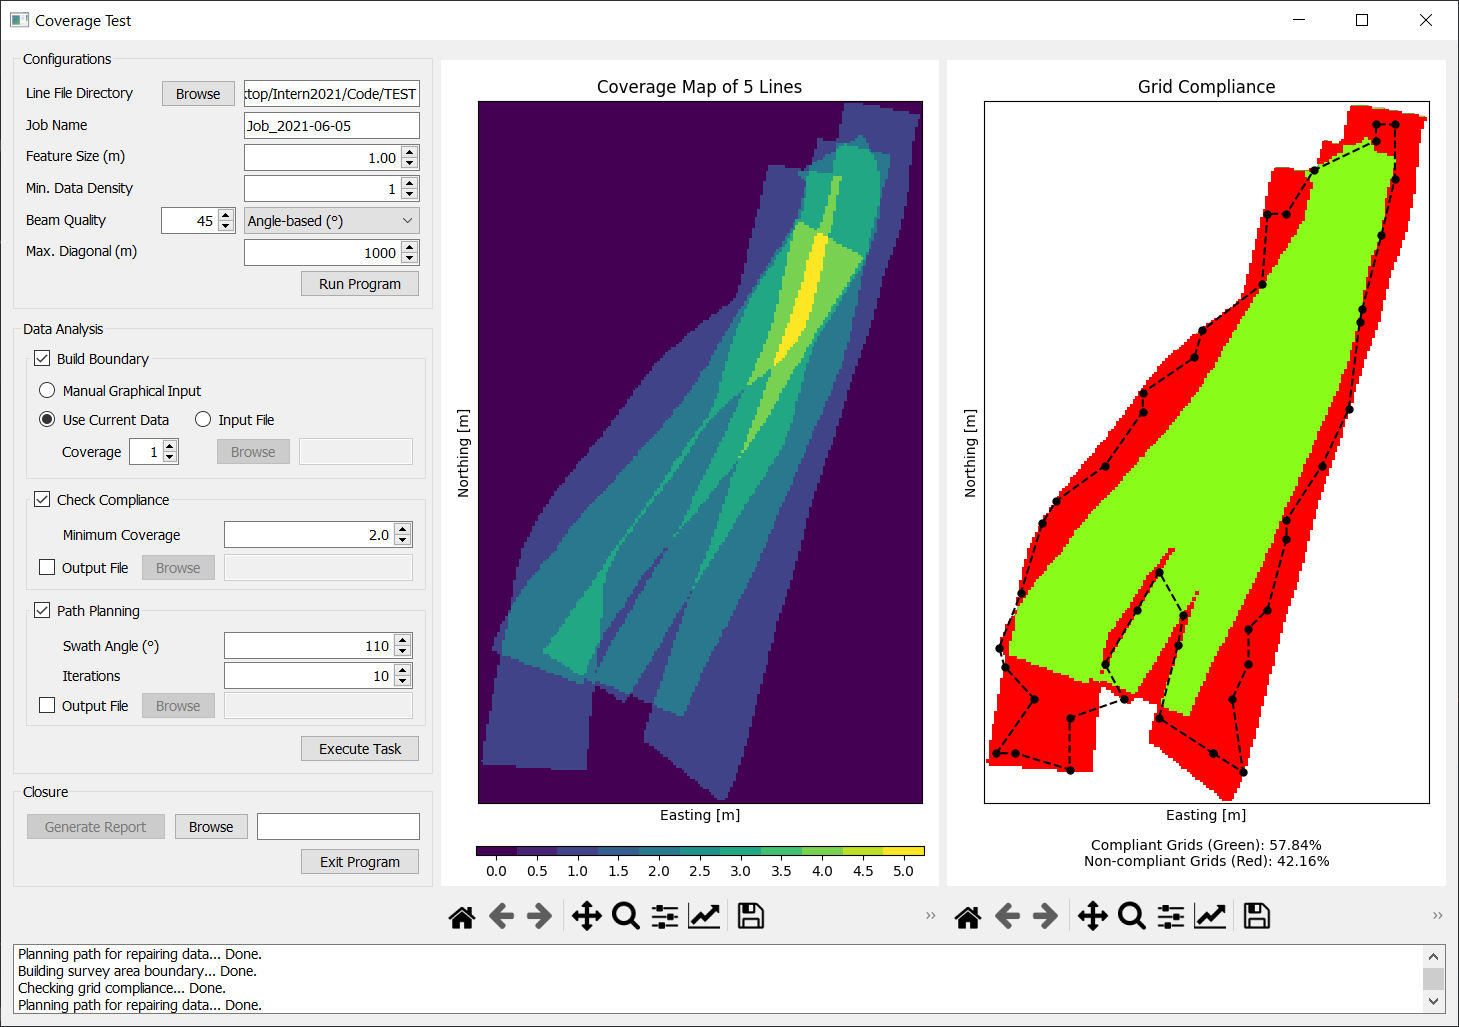
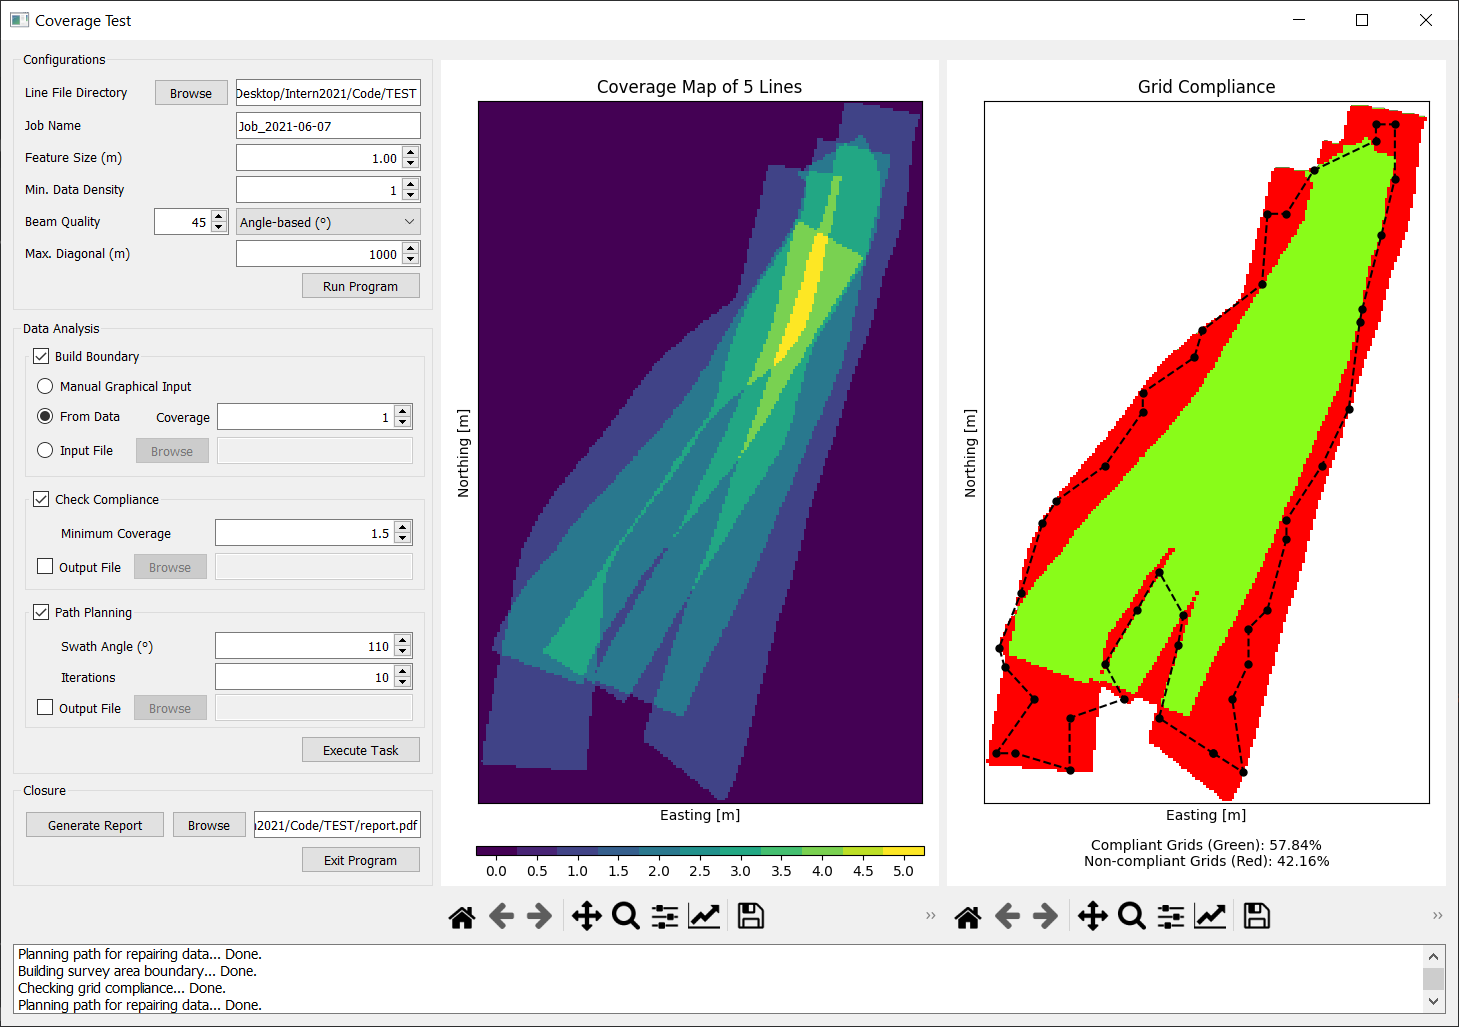
Improved ui

diff --git a/main_window_ui.py b/main_window_ui.py
@@ -173,62 +173,53 @@ class Ui_MainWindow(object):
         self.bounGroup.setFlat(False)
         self.bounGroup.setCheckable(True)
         self.bounGroup.setObjectName("bounGroup")
-        self.gridLayout_7 = QtWidgets.QGridLayout(self.bounGroup)
-        self.gridLayout_7.setObjectName("gridLayout_7")
-        self.bounInGlayout = QtWidgets.QGridLayout()
-        self.bounInGlayout.setObjectName("bounInGlayout")
-        self.bounFileRadio = QtWidgets.QRadioButton(self.bounGroup)
-        self.bounFileRadio.setEnabled(True)
-        self.bounFileRadio.setMinimumSize(QtCore.QSize(0, 0))
-        self.bounFileRadio.setMaximumSize(QtCore.QSize(16777215, 16777215))
-        self.bounFileRadio.setObjectName("bounFileRadio")
-        self.bounInGlayout.addWidget(self.bounFileRadio, 0, 0, 1, 3)
-        spacerItem3 = QtWidgets.QSpacerItem(13, 20, QtWidgets.QSizePolicy.Fixed, QtWidgets.QSizePolicy.Minimum)
-        self.bounInGlayout.addItem(spacerItem3, 1, 0, 1, 1)
-        self.bounFileBrowseButton = QtWidgets.QPushButton(self.bounGroup)
-        self.bounFileBrowseButton.setEnabled(False)
-        self.bounFileBrowseButton.setMinimumSize(QtCore.QSize(75, 27))
-        self.bounFileBrowseButton.setMaximumSize(QtCore.QSize(75, 27))
-        self.bounFileBrowseButton.setObjectName("bounFileBrowseButton")
-        self.bounInGlayout.addWidget(self.bounFileBrowseButton, 1, 1, 1, 1)
-        self.bounFileInput = QtWidgets.QLineEdit(self.bounGroup)
-        self.bounFileInput.setEnabled(False)
-        self.bounFileInput.setMinimumSize(QtCore.QSize(0, 27))
-        self.bounFileInput.setMaximumSize(QtCore.QSize(120, 27))
-        self.bounFileInput.setObjectName("bounFileInput")
-        self.bounInGlayout.addWidget(self.bounFileInput, 1, 2, 1, 1)
-        self.gridLayout_7.addLayout(self.bounInGlayout, 1, 2, 1, 1)
+        self.verticalLayout_5 = QtWidgets.QVBoxLayout(self.bounGroup)
+        self.verticalLayout_5.setObjectName("verticalLayout_5")
+        self.ginputRadio = QtWidgets.QRadioButton(self.bounGroup)
+        self.ginputRadio.setStatusTip("")
+        self.ginputRadio.setWhatsThis("")
+        self.ginputRadio.setObjectName("ginputRadio")
+        self.verticalLayout_5.addWidget(self.ginputRadio)
         self.gridLayout_3 = QtWidgets.QGridLayout()
         self.gridLayout_3.setObjectName("gridLayout_3")
         self.bounRadio = QtWidgets.QRadioButton(self.bounGroup)
         self.bounRadio.setEnabled(True)
         self.bounRadio.setChecked(True)
         self.bounRadio.setObjectName("bounRadio")
-        self.gridLayout_3.addWidget(self.bounRadio, 0, 0, 1, 3)
+        self.gridLayout_3.addWidget(self.bounRadio, 0, 0, 1, 1)
         self.label_5 = QtWidgets.QLabel(self.bounGroup)
         self.label_5.setObjectName("label_5")
-        self.gridLayout_3.addWidget(self.label_5, 1, 1, 1, 1, QtCore.Qt.AlignRight)
-        spacerItem4 = QtWidgets.QSpacerItem(18, 20, QtWidgets.QSizePolicy.Expanding, QtWidgets.QSizePolicy.Minimum)
-        self.gridLayout_3.addItem(spacerItem4, 1, 0, 1, 1)
+        self.gridLayout_3.addWidget(self.label_5, 0, 1, 1, 1, QtCore.Qt.AlignRight)
         self.bounSpinbox = QtWidgets.QSpinBox(self.bounGroup)
-        self.bounSpinbox.setMinimumSize(QtCore.QSize(50, 27))
-        self.bounSpinbox.setMaximumSize(QtCore.QSize(50, 27))
+        self.bounSpinbox.setMinimumSize(QtCore.QSize(0, 27))
+        self.bounSpinbox.setMaximumSize(QtCore.QSize(16777215, 27))
         self.bounSpinbox.setAlignment(QtCore.Qt.AlignRight|QtCore.Qt.AlignTrailing|QtCore.Qt.AlignVCenter)
         self.bounSpinbox.setMinimum(1)
         self.bounSpinbox.setMaximum(5)
         self.bounSpinbox.setObjectName("bounSpinbox")
-        self.gridLayout_3.addWidget(self.bounSpinbox, 1, 2, 1, 1)
-        self.gridLayout_7.addLayout(self.gridLayout_3, 1, 0, 1, 1)
-        spacerItem5 = QtWidgets.QSpacerItem(6, 20, QtWidgets.QSizePolicy.Expanding, QtWidgets.QSizePolicy.Minimum)
-        self.gridLayout_7.addItem(spacerItem5, 1, 1, 1, 1)
-        self.ginputRadio = QtWidgets.QRadioButton(self.bounGroup)
-        self.ginputRadio.setStatusTip("")
-        self.ginputRadio.setWhatsThis("")
-        self.ginputRadio.setObjectName("ginputRadio")
-        self.gridLayout_7.addWidget(self.ginputRadio, 0, 0, 1, 3)
+        self.gridLayout_3.addWidget(self.bounSpinbox, 0, 2, 1, 1)
+        self.bounFileRadio = QtWidgets.QRadioButton(self.bounGroup)
+        self.bounFileRadio.setEnabled(True)
+        self.bounFileRadio.setMinimumSize(QtCore.QSize(0, 0))
+        self.bounFileRadio.setMaximumSize(QtCore.QSize(16777215, 16777215))
+        self.bounFileRadio.setObjectName("bounFileRadio")
+        self.gridLayout_3.addWidget(self.bounFileRadio, 1, 0, 1, 1)
+        self.bounFileBrowseButton = QtWidgets.QPushButton(self.bounGroup)
+        self.bounFileBrowseButton.setEnabled(False)
+        self.bounFileBrowseButton.setMinimumSize(QtCore.QSize(75, 27))
+        self.bounFileBrowseButton.setMaximumSize(QtCore.QSize(75, 27))
+        self.bounFileBrowseButton.setObjectName("bounFileBrowseButton")
+        self.gridLayout_3.addWidget(self.bounFileBrowseButton, 1, 1, 1, 1)
+        self.bounFileInput = QtWidgets.QLineEdit(self.bounGroup)
+        self.bounFileInput.setEnabled(False)
+        self.bounFileInput.setMinimumSize(QtCore.QSize(0, 27))
+        self.bounFileInput.setMaximumSize(QtCore.QSize(16777215, 27))
+        self.bounFileInput.setObjectName("bounFileInput")
+        self.gridLayout_3.addWidget(self.bounFileInput, 1, 2, 1, 1)
+        self.verticalLayout_5.addLayout(self.gridLayout_3)
         self.gridLayout_6.addWidget(self.bounGroup, 0, 0, 1, 2)
-        spacerItem6 = QtWidgets.QSpacerItem(20, 40, QtWidgets.QSizePolicy.Minimum, QtWidgets.QSizePolicy.Expanding)
-        self.gridLayout_6.addItem(spacerItem6, 3, 0, 1, 2)
+        spacerItem3 = QtWidgets.QSpacerItem(20, 40, QtWidgets.QSizePolicy.Minimum, QtWidgets.QSizePolicy.Expanding)
+        self.gridLayout_6.addItem(spacerItem3, 3, 0, 1, 2)
         self.failGroup = QtWidgets.QGroupBox(self.dataGroup)
         self.failGroup.setMinimumSize(QtCore.QSize(400, 100))
         self.failGroup.setMaximumSize(QtCore.QSize(400, 100))
@@ -419,8 +410,8 @@ class Ui_MainWindow(object):
         self.verticalLayout.addLayout(self.horizontalLayout_5)
         self.horizontalLayout = QtWidgets.QHBoxLayout()
         self.horizontalLayout.setObjectName("horizontalLayout")
-        spacerItem7 = QtWidgets.QSpacerItem(40, 20, QtWidgets.QSizePolicy.Expanding, QtWidgets.QSizePolicy.Minimum)
-        self.horizontalLayout.addItem(spacerItem7)
+        spacerItem4 = QtWidgets.QSpacerItem(40, 20, QtWidgets.QSizePolicy.Expanding, QtWidgets.QSizePolicy.Minimum)
+        self.horizontalLayout.addItem(spacerItem4)
         self.exitButton = QtWidgets.QPushButton(self.endGroup)
         sizePolicy = QtWidgets.QSizePolicy(QtWidgets.QSizePolicy.Minimum, QtWidgets.QSizePolicy.Maximum)
         sizePolicy.setHorizontalStretch(0)
@@ -485,6 +476,7 @@ class Ui_MainWindow(object):
         self.failOutCheckbox.toggled['bool'].connect(self.failDir.setEnabled)
         self.ppOutCheckbox.toggled['bool'].connect(self.ppDirBrowseButton.setEnabled)
         self.ppOutCheckbox.toggled['bool'].connect(self.ppDir.setEnabled)
+        self.bounRadio.toggled['bool'].connect(self.label_5.setEnabled)
         QtCore.QMetaObject.connectSlotsByName(MainWindow)
         MainWindow.setTabOrder(self.inputDirBrowseButton, self.inputDir)
         MainWindow.setTabOrder(self.inputDir, self.inputName)
@@ -498,8 +490,7 @@ class Ui_MainWindow(object):
         MainWindow.setTabOrder(self.bounGroup, self.ginputRadio)
         MainWindow.setTabOrder(self.ginputRadio, self.bounRadio)
         MainWindow.setTabOrder(self.bounRadio, self.bounSpinbox)
-        MainWindow.setTabOrder(self.bounSpinbox, self.bounFileRadio)
-        MainWindow.setTabOrder(self.bounFileRadio, self.bounFileBrowseButton)
+        MainWindow.setTabOrder(self.bounSpinbox, self.bounFileBrowseButton)
         MainWindow.setTabOrder(self.bounFileBrowseButton, self.bounFileInput)
         MainWindow.setTabOrder(self.bounFileInput, self.failGroup)
         MainWindow.setTabOrder(self.failGroup, self.inputCoverage)
@@ -536,16 +527,16 @@ class Ui_MainWindow(object):
         self.runButton.setText(_translate("MainWindow", "Run Program"))
         self.dataGroup.setTitle(_translate("MainWindow", "Data Analysis"))
         self.bounGroup.setTitle(_translate("MainWindow", "Build Boundary"))
+        self.ginputRadio.setToolTip(_translate("MainWindow", "Click in Sequence on Coverage Map: Left-click to Select, Right-click to Deselect, Mid-click to Confirm"))
+        self.ginputRadio.setText(_translate("MainWindow", "Manual Graphical Input"))
+        self.bounRadio.setText(_translate("MainWindow", "From Data "))
+        self.label_5.setText(_translate("MainWindow", " Coverage"))
+        self.bounSpinbox.setToolTip(_translate("MainWindow", "Minimum Coverage for Building Boundary"))
         self.bounFileRadio.setToolTip(_translate("MainWindow", "Two-column Text File, Header Row: Easting, Northing"))
         self.bounFileRadio.setText(_translate("MainWindow", "Input File"))
         self.bounFileBrowseButton.setToolTip(_translate("MainWindow", "<html><head/><body><p>Two-column Text File, Header Row: Easting, Northing</p></body></html>"))
         self.bounFileBrowseButton.setText(_translate("MainWindow", "Browse"))
         self.bounFileInput.setToolTip(_translate("MainWindow", "<html><head/><body><p>Two-column Text File, Header Row: Easting, Northing</p></body></html>"))
-        self.bounRadio.setText(_translate("MainWindow", "Use Current Data"))
-        self.label_5.setText(_translate("MainWindow", " Coverage"))
-        self.bounSpinbox.setToolTip(_translate("MainWindow", "Minimum Coverage for Building Boundary"))
-        self.ginputRadio.setToolTip(_translate("MainWindow", "Click in Sequence on Coverage Map: Left-click to Select, Right-click to Deselect, Mid-click to Confirm"))
-        self.ginputRadio.setText(_translate("MainWindow", "Manual Graphical Input"))
         self.failGroup.setTitle(_translate("MainWindow", "Check Compliance"))
         self.label_4.setText(_translate("MainWindow", "      Minimum Coverage"))
         self.failOutCheckbox.setText(_translate("MainWindow", "Output File"))

diff --git a/main.py b/main.py
@@ -117,12 +117,12 @@ class Reader(QObject):
             try:
                 data = pd.read_csv(sval, sep=' ', usecols=['Easting', 'Northing', 'Depth', 'Acr Angle']).to_numpy()
             except ValueError:
-                data = pd.read_csv(sval, sep=' ', usecols=['0', '1', '2', '3']).to_numpy()
+                data = pd.read_csv(sval, sep=' ', usecols=[0, 1, 2, 3]).to_numpy()
         else:
             try:
                 data = pd.read_csv(sval, sep=' ', usecols=['Easting', 'Northing', 'Depth']).to_numpy()
             except ValueError:
-                data = pd.read_csv(sval, sep=' ', usecols=['0', '1', '2']).to_numpy()
+                data = pd.read_csv(sval, sep=' ', usecols=[0, 1, 2]).to_numpy()
 
         self.xylim[2, :] = data[:, :2].min(axis=0)
         self.xylim[3, :] = data[:, :2].max(axis=0)
@@ -606,7 +606,6 @@ class Window(QMainWindow, Ui_MainWindow):
         # noinspection PyArgumentList
         self.linepatch.set_xy(boun_xy)
         self.canvas2.draw()
-
         if self.failGroup.isChecked():
             self.run_checker()
         else:
@@ -674,7 +673,6 @@ class Window(QMainWindow, Ui_MainWindow):
                 wptfile.close()
             else:
                 np.savetxt(self.ppDir.text(), waypt, fmt='%.3f', header='Easting Northing', comments='')
-
         self.enabletask()
 
     @pyqtSlot()
